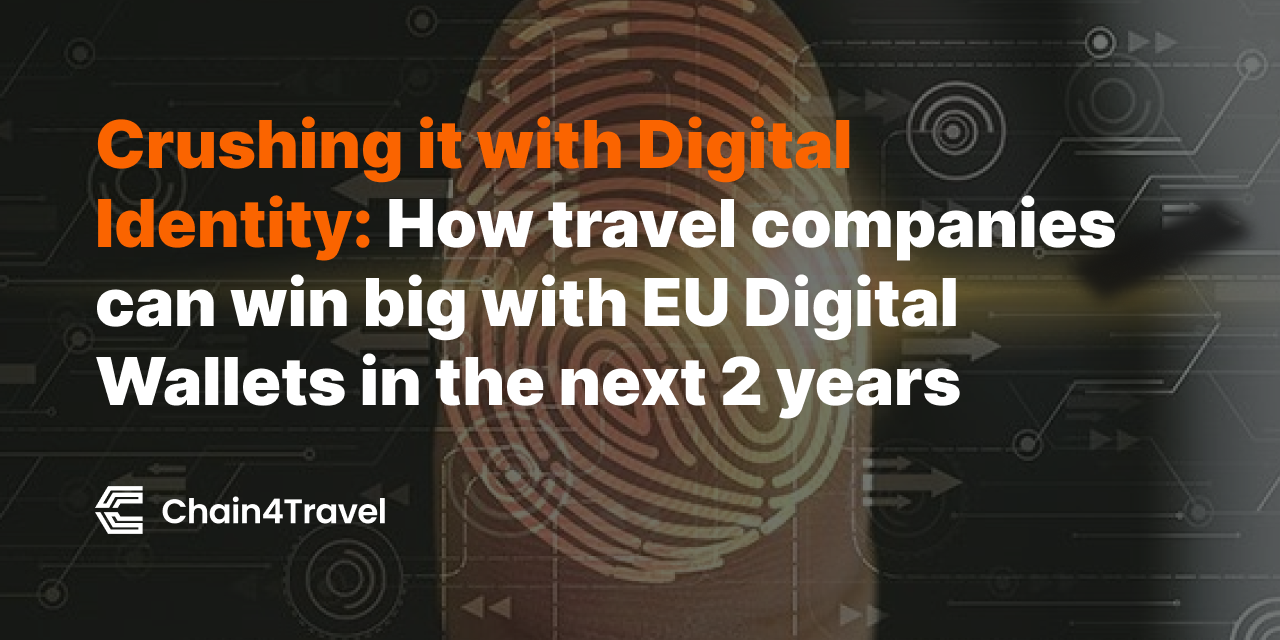
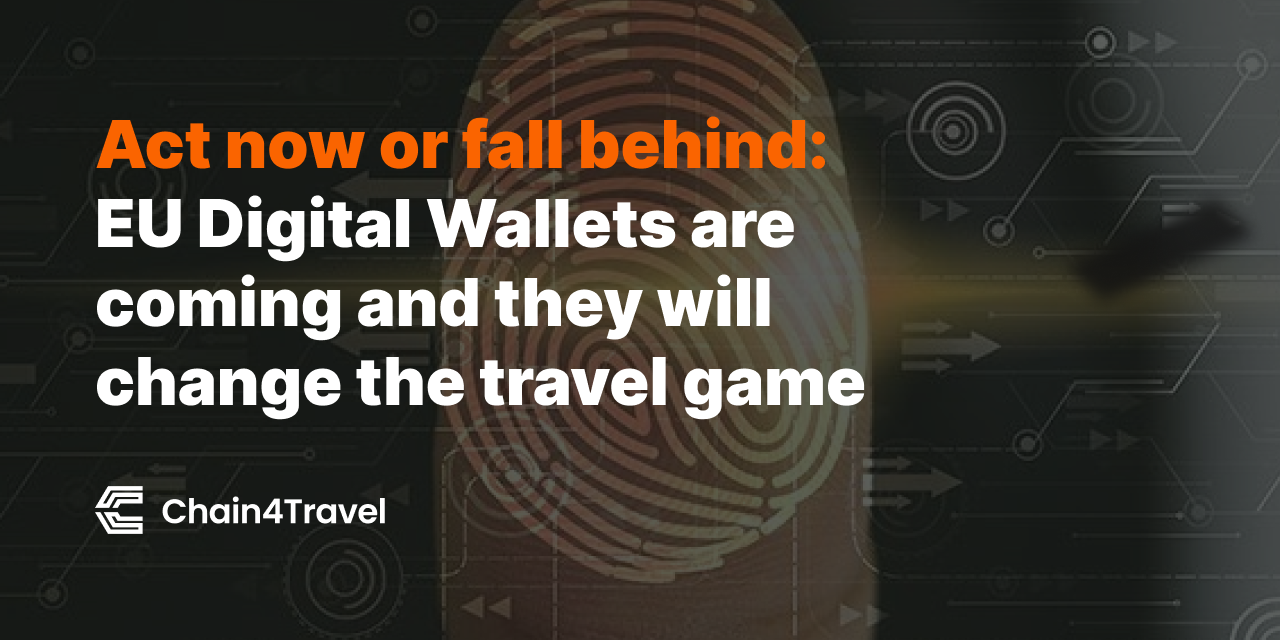
new blogpost updates

Changed region(s): [[0.0625, 0.1875, 0.875, 0.6562]]

diff --git a/src/posts/fomo-series.md b/src/posts/fomo-series.md
@@ -1,7 +1,7 @@
 ---
 layout: layout_blogpost
-title: "Crushing it with Digital Identity: How travel companies can win big with EU Digital Wallets in the next 2 years"
-description: Is decentralized travel the future? Decentralization could disrupt the travel industry as we know it. Learn how to leverage it to your advantage.
+title: "Act now or fall behind: EU Digital Wallets are coming and they will change the travel game"
+description: The eIDAS 2.0 Regulation is set to transform identification, authentication, and proofs across the EU with immense impact on personal lives as well as businesses. Is the travel industry ready for digital identities and digital travelers?
 socialImage: social_crushingit.png
 permalink: /crushing-it-with-digital-identity/
 authorslug: ankehsu
